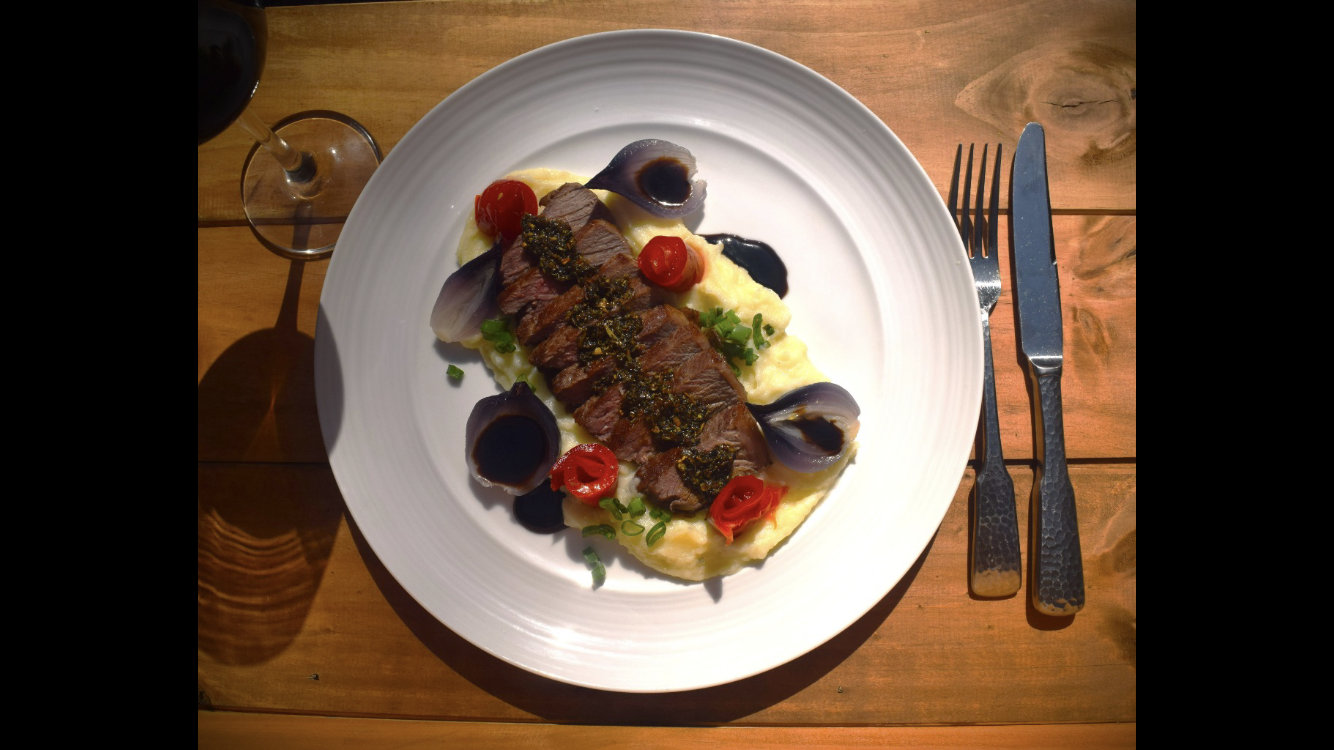
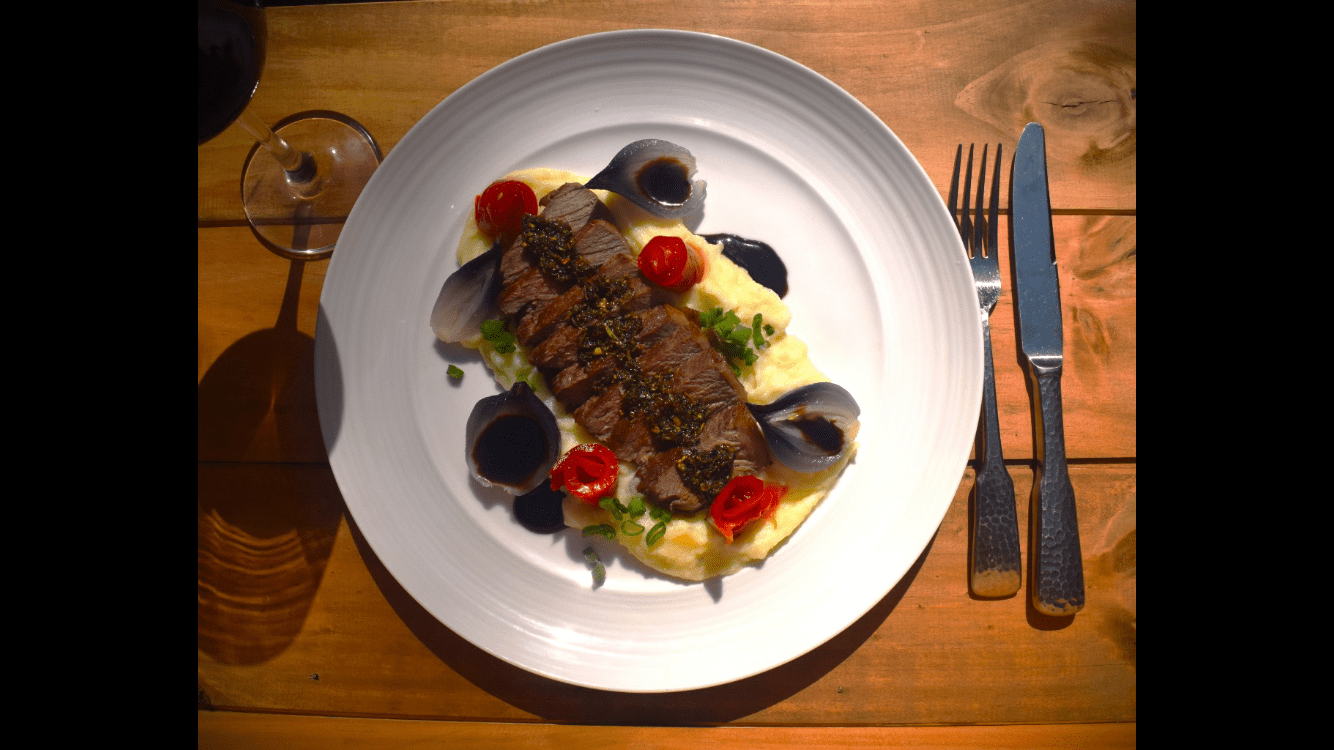
reduccion tamaño de imagenes

diff --git a/css/main.css b/css/main.css
@@ -245,6 +245,15 @@ footer div {
         margin: 50px;
     }
 
+    .ensaladas img, .vegan img, .postres img, .principal img {
+        object-fit: cover;
+        width: 250px;
+        height: 250px;
+        margin: 10px;
+        border-radius: 1rem;
+        transition: .5s;
+    }
+
     footer div {
         display: flex;
         justify-content: center;
